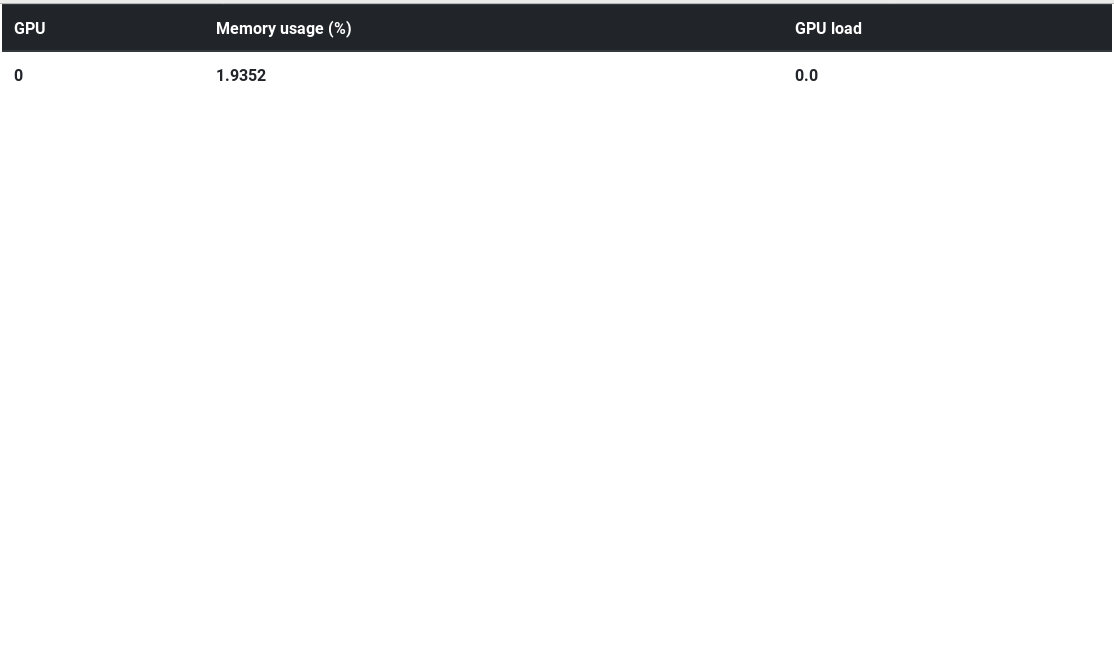
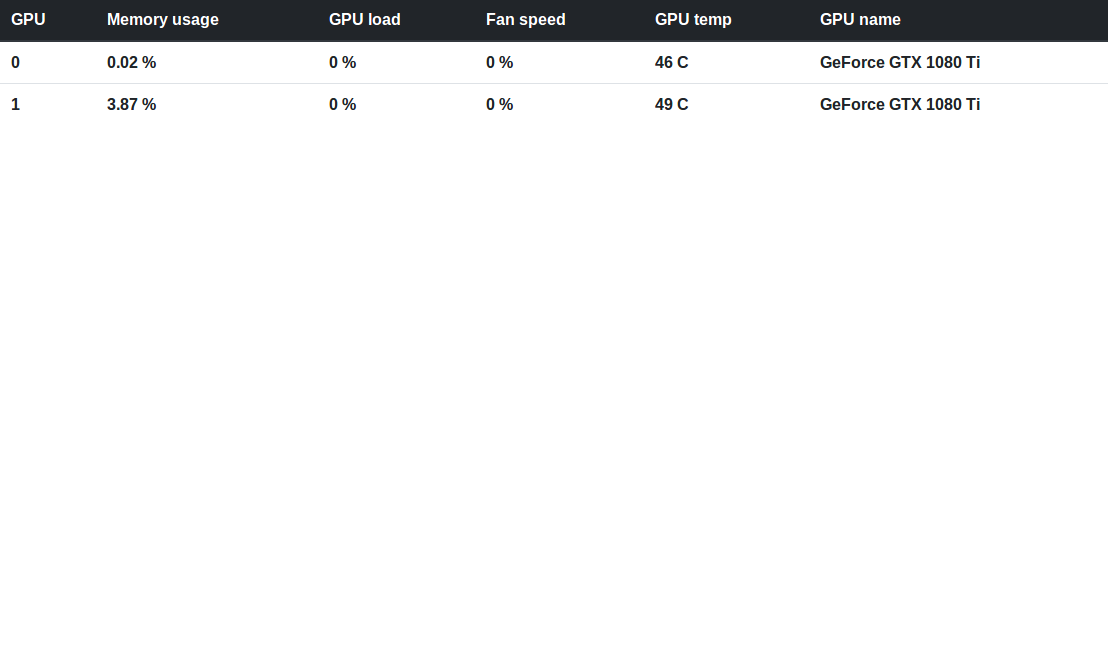
fixed multi-gpu support

Changed region(s): [[0.0, 0.0, 1.0, 0.1852]]

diff --git a/inuse.py b/inuse.py
@@ -7,28 +7,30 @@ GPU_information = {}
 
 @app.route('/inuse')
 def nvidia_smi():
-    GPU_information = xmlnvidiasmi()
+    GPU_information = parsedNvidiaSmi()
 
     res = render_template("html/nvidiasmi.html",
                           toPass=GPU_information
                           )
     return res
 
-def xmlnvidiasmi():
-    r = subprocess.getoutput('nvidia-smi --xml-format -q')
-    #print(r)
-    newdict = xmltodict.parse(r)
-    gpus = newdict["nvidia_smi_log"]["gpu"]
+def getNvidiaSmiXML():
+    return subprocess.getoutput('nvidia-smi --xml-format -q')
+
+def parsedNvidiaSmi():
+    xml = getNvidiaSmiXML()
+    gpu_information = xmltodict.parse(xml)
+    gpus = gpu_information["nvidia_smi_log"]["gpu"]
     gpu_result = {}
     for gpu in gpus:
-        id = int(gpus["minor_number"])
-        fanspeed = gpus["fan_speed"]
-        name = gpus["product_name"]
-        gpu_temp = gpus["temperature"]["gpu_temp"]
-        memory_percentage = round(float(gpus["fb_memory_usage"]["used"].split()[0]) / \
-                            float(gpus["fb_memory_usage"]["total"].split()[0]) * 100, 2)
-        GPU_load = gpus["utilization"]["gpu_util"]
-        gpu_result[id] = (id, str(memory_percentage) + " %", GPU_load, fanspeed, gpu_temp, name)
+        id = int(gpu["minor_number"])
+        fan_speed = gpu["fan_speed"]
+        name = gpu["product_name"]
+        gpu_temp = gpu["temperature"]["gpu_temp"]
+        memory_percentage = round(float(gpu["fb_memory_usage"]["used"].split()[0]) / \
+                            float(gpu["fb_memory_usage"]["total"].split()[0]) * 100, 2)
+        GPU_load = gpu["utilization"]["gpu_util"]
+        gpu_result[id] = (id, str(memory_percentage) + " %", GPU_load, fan_speed, gpu_temp, name)
     return gpu_result
 
 @app.route("/")

diff --git a/README.md b/README.md
@@ -3,9 +3,14 @@
 # GPUse
 
 Using this simple utility we can see if the server is in use or not.
-More information will be added later.
+Please come with suggestions on what would be nice to have in this utility. 
+Pull requests are welcome. 
 
-GPUid, memory usage and GPU load is shown as of now.
+Information available now: 
+
+ - GPU, Memory usage, GPU load, Fan speed, GPU temp and GPU name
+
+
 
 ### Screenshot
 
